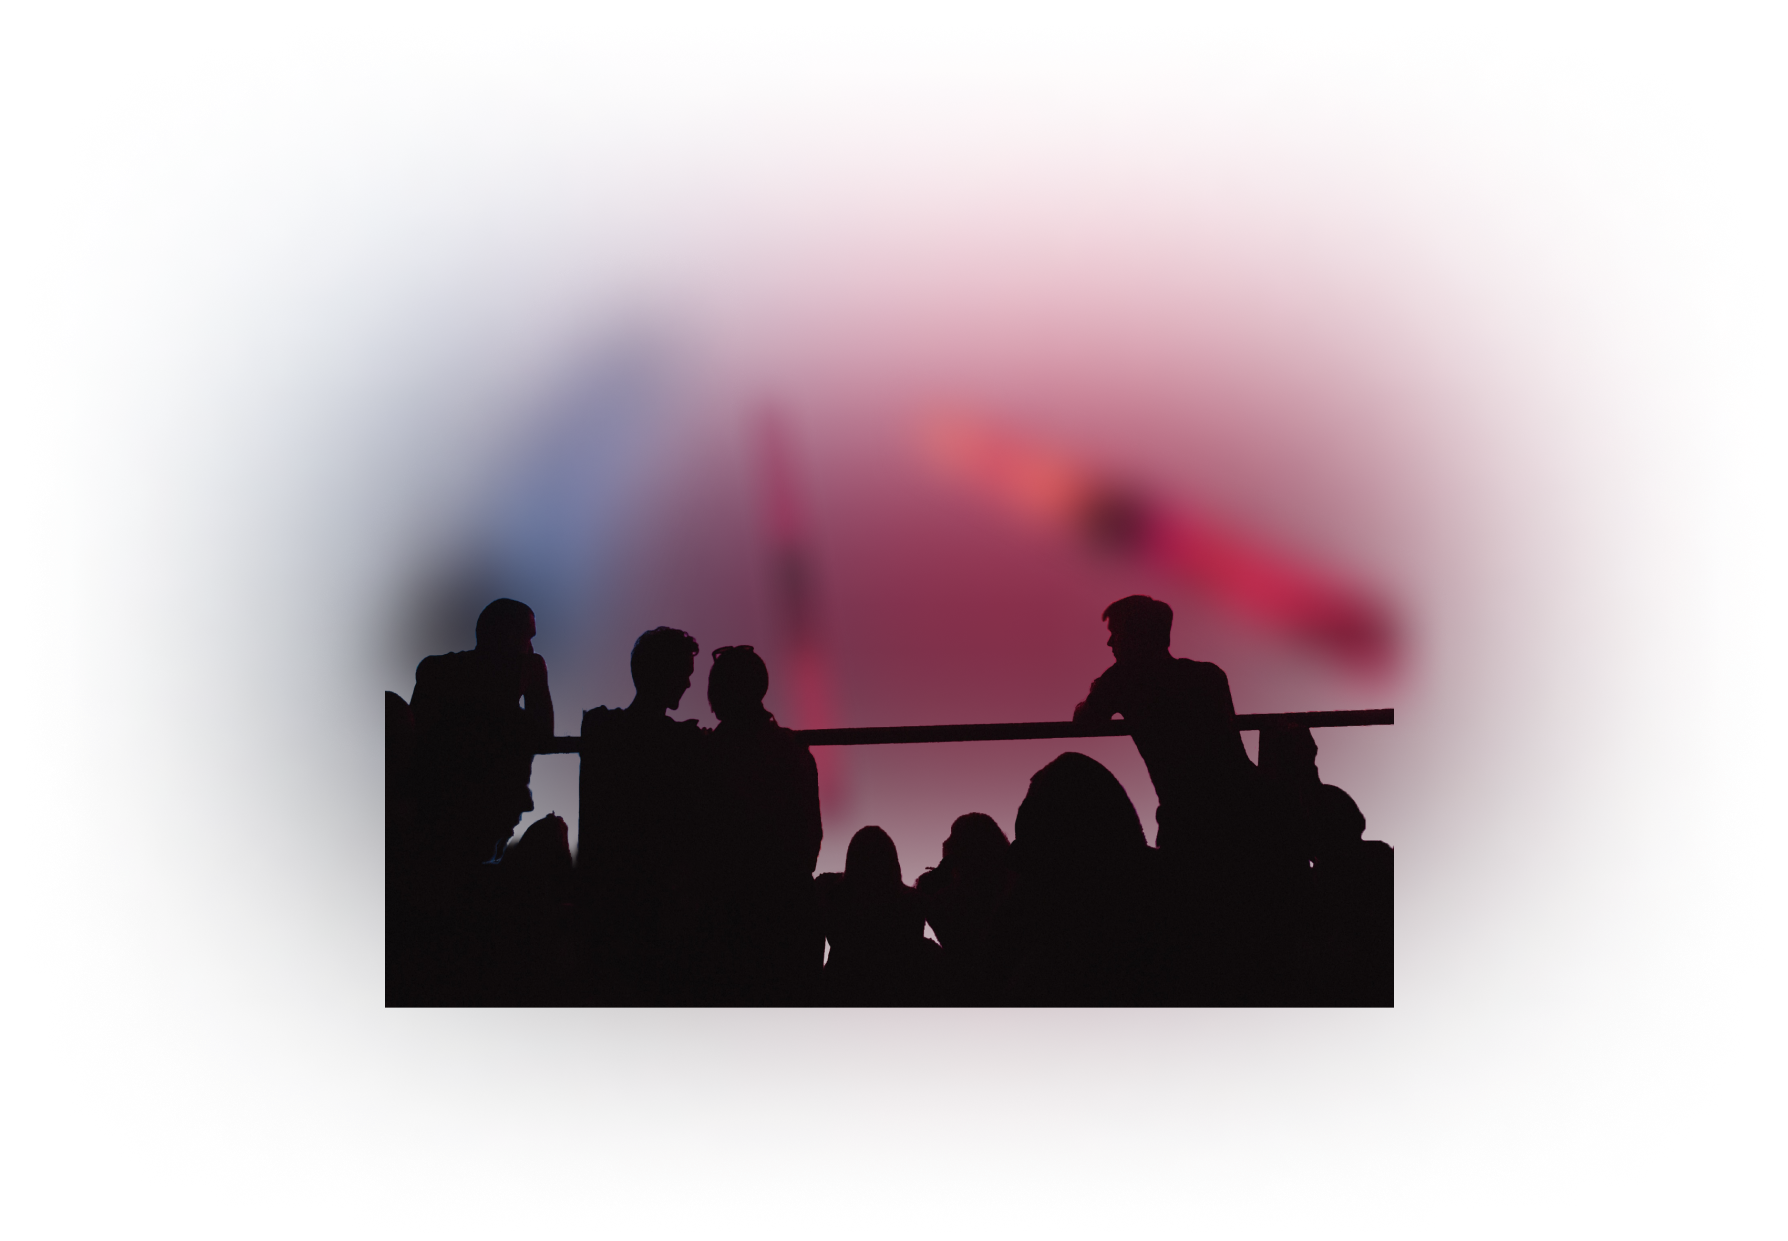
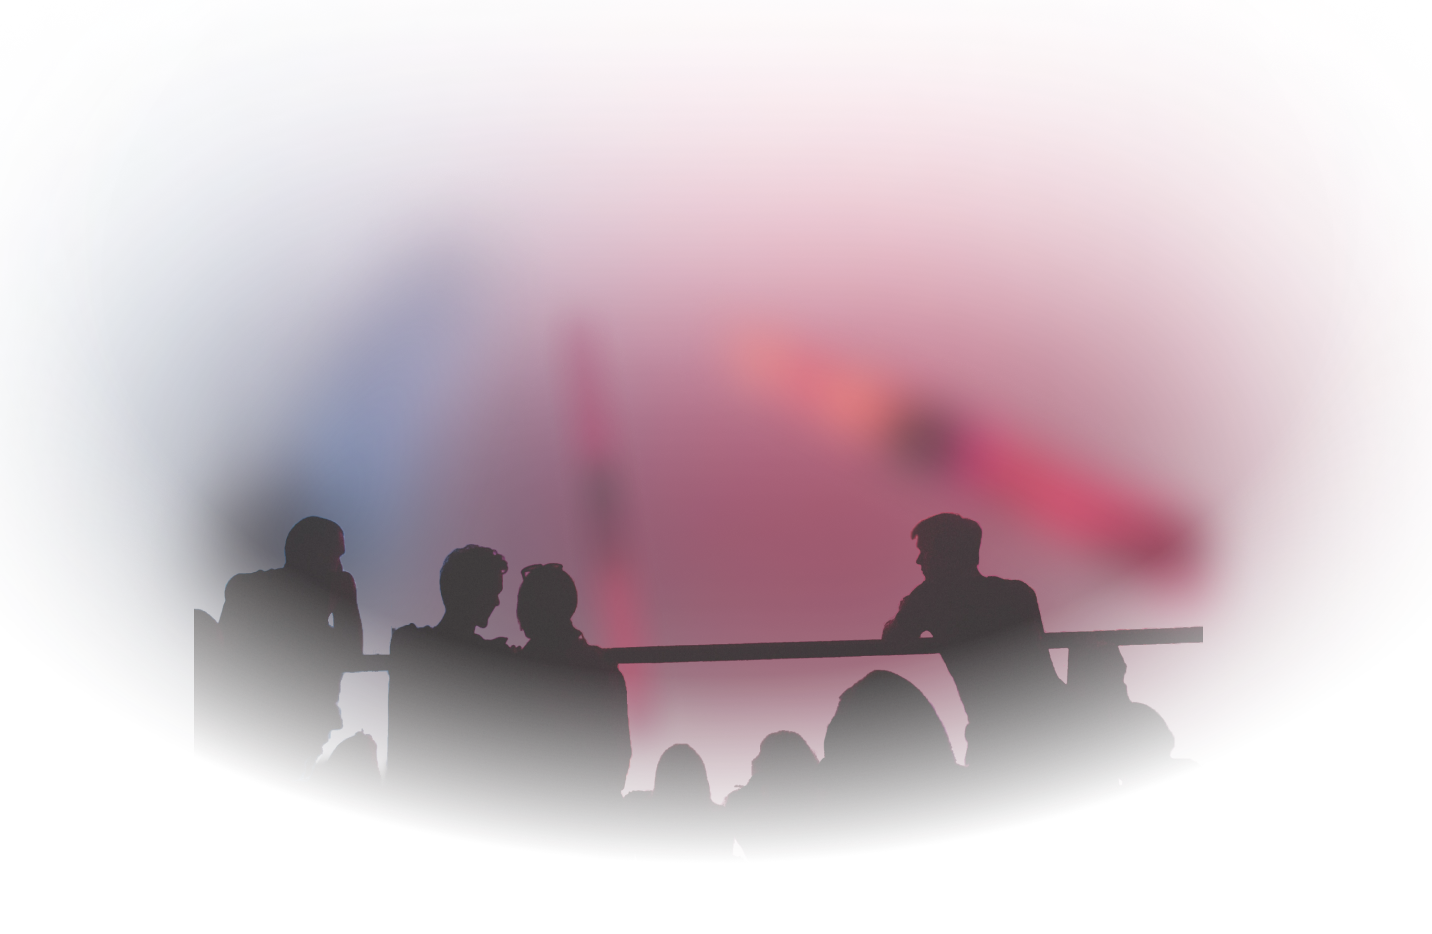
refactor: refactor token holder page background

diff --git a/src/templates/TokenHolder/styles.ts b/src/templates/TokenHolder/styles.ts
@@ -1,11 +1,28 @@
 import styled, { css } from 'styled-components'
 
 export const Wrapper = styled.main`
-  /* background-color: #151117;
-  background-image: url('/assets/images/background-token.png');
-  background-repeat: repeat-y;
-  background-size: cover;
-  background-position-x: center; */
+  background-color: #151117;
+  background: url('/assets/images/1920-dao-bg.png'),
+    url('/assets/images/1920-dao-bg.png');
+  background-repeat: no-repeat;
+  background-size: auto;
+  background-position: left top;
+
+  @media (max-width: 820px) {
+    background: url('/assets/images/768px-dao-bg.png'),
+      url('/assets/images/768px-dao-bg.png');
+    background-repeat: no-repeat;
+    background-size: cover;
+    background-position: left top;
+  }
+
+  @media (max-width: 560px) {
+    background: url('/assets/images/360px-dao-bg.png'),
+      url('/assets/images/360px-dao-bg.png');
+    background-repeat: no-repeat;
+    background-size: cover;
+    background-position: left top;
+  }
 `
 
 export const Hero = styled.section`
@@ -22,9 +39,11 @@ export const Hero = styled.section`
   padding: 0 1.6rem;
   padding-top: 10rem;
 
-  background-image: url('/assets/images/hero-token-holder-2.png');
+  background-image: url('/assets/images/hero-token-holder.png');
   background-position: center;
   background-repeat: no-repeat;
+  background-blend-mode: color-dodge;
+  background-color: #151117;
 
   @media (max-width: 560px) {
     background-position: 55% 53%;

diff --git a/src/pages/_app.tsx b/src/pages/_app.tsx
@@ -88,7 +88,11 @@ const MyApp: React.FC<AppProps> = ({ Component, pageProps }) => {
           <Toastify />
           <GlobalStyles
             selectBackground={
-              pathName === '/' ? false : pathName === '/about' ? false : true
+              pathName === '/' || pathName === '/token-holder'
+                ? false
+                : pathName === '/about'
+                ? false
+                : true
             }
           />
           <SWRConfig
